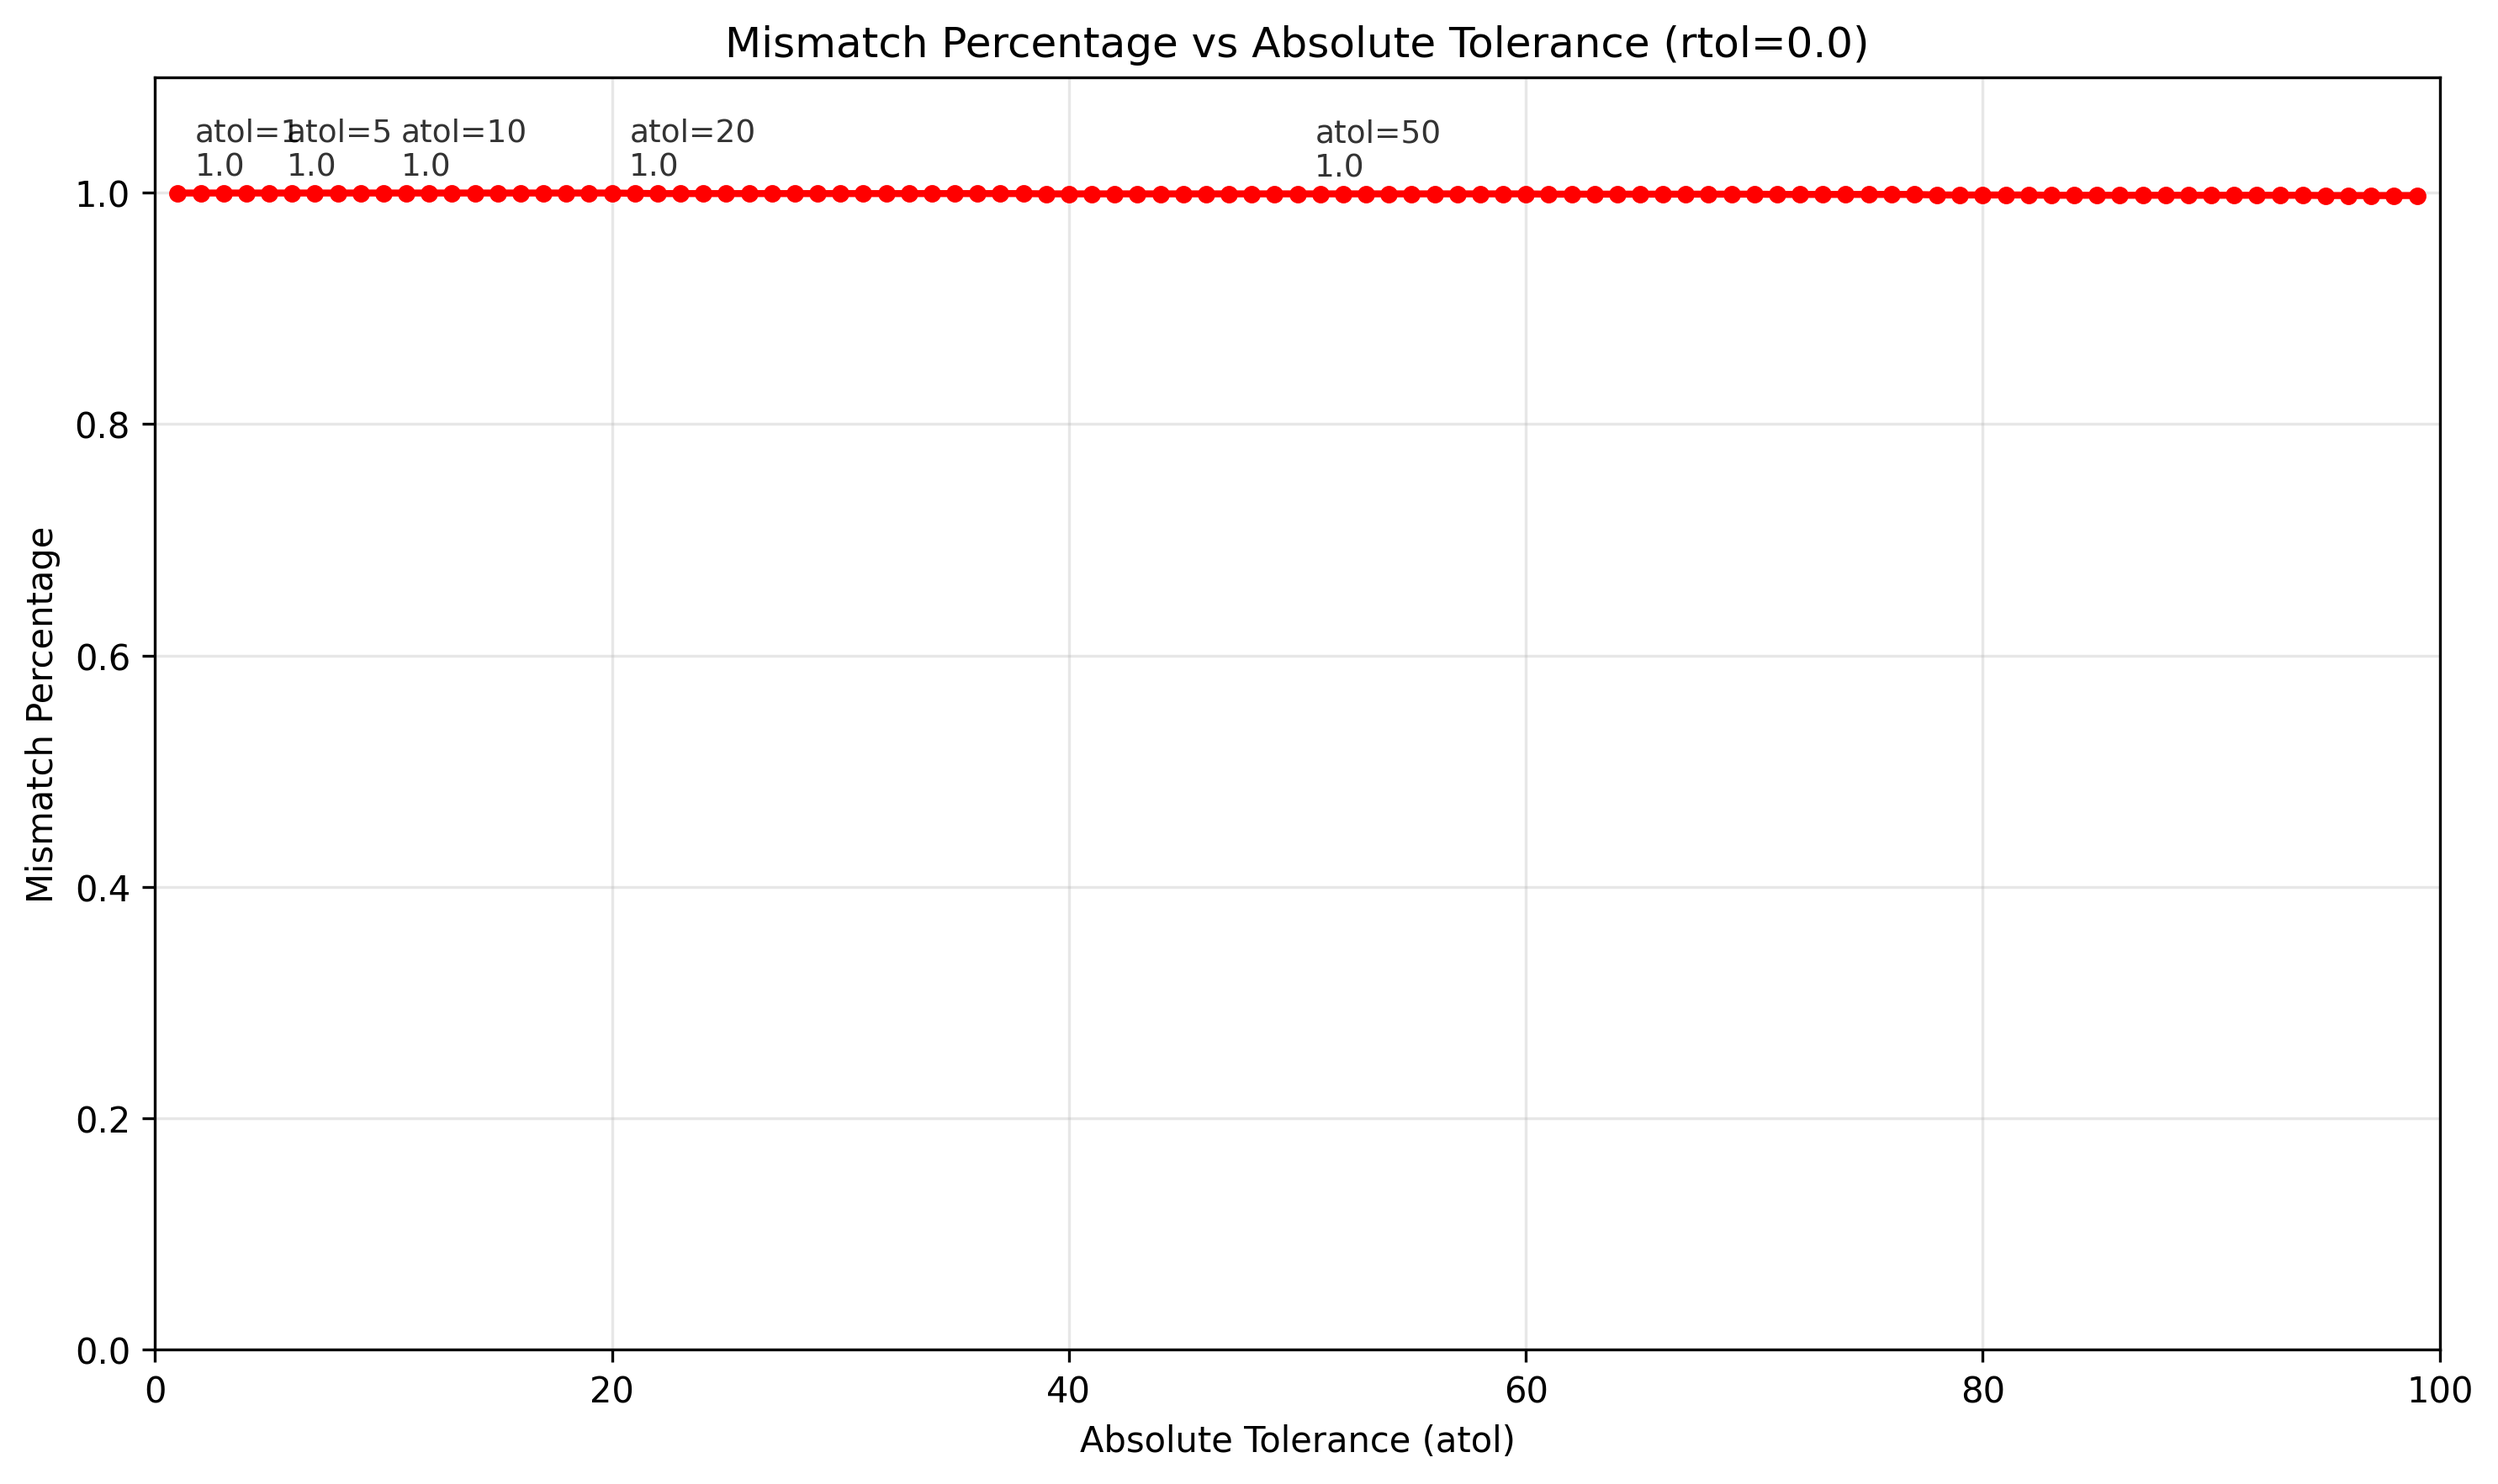
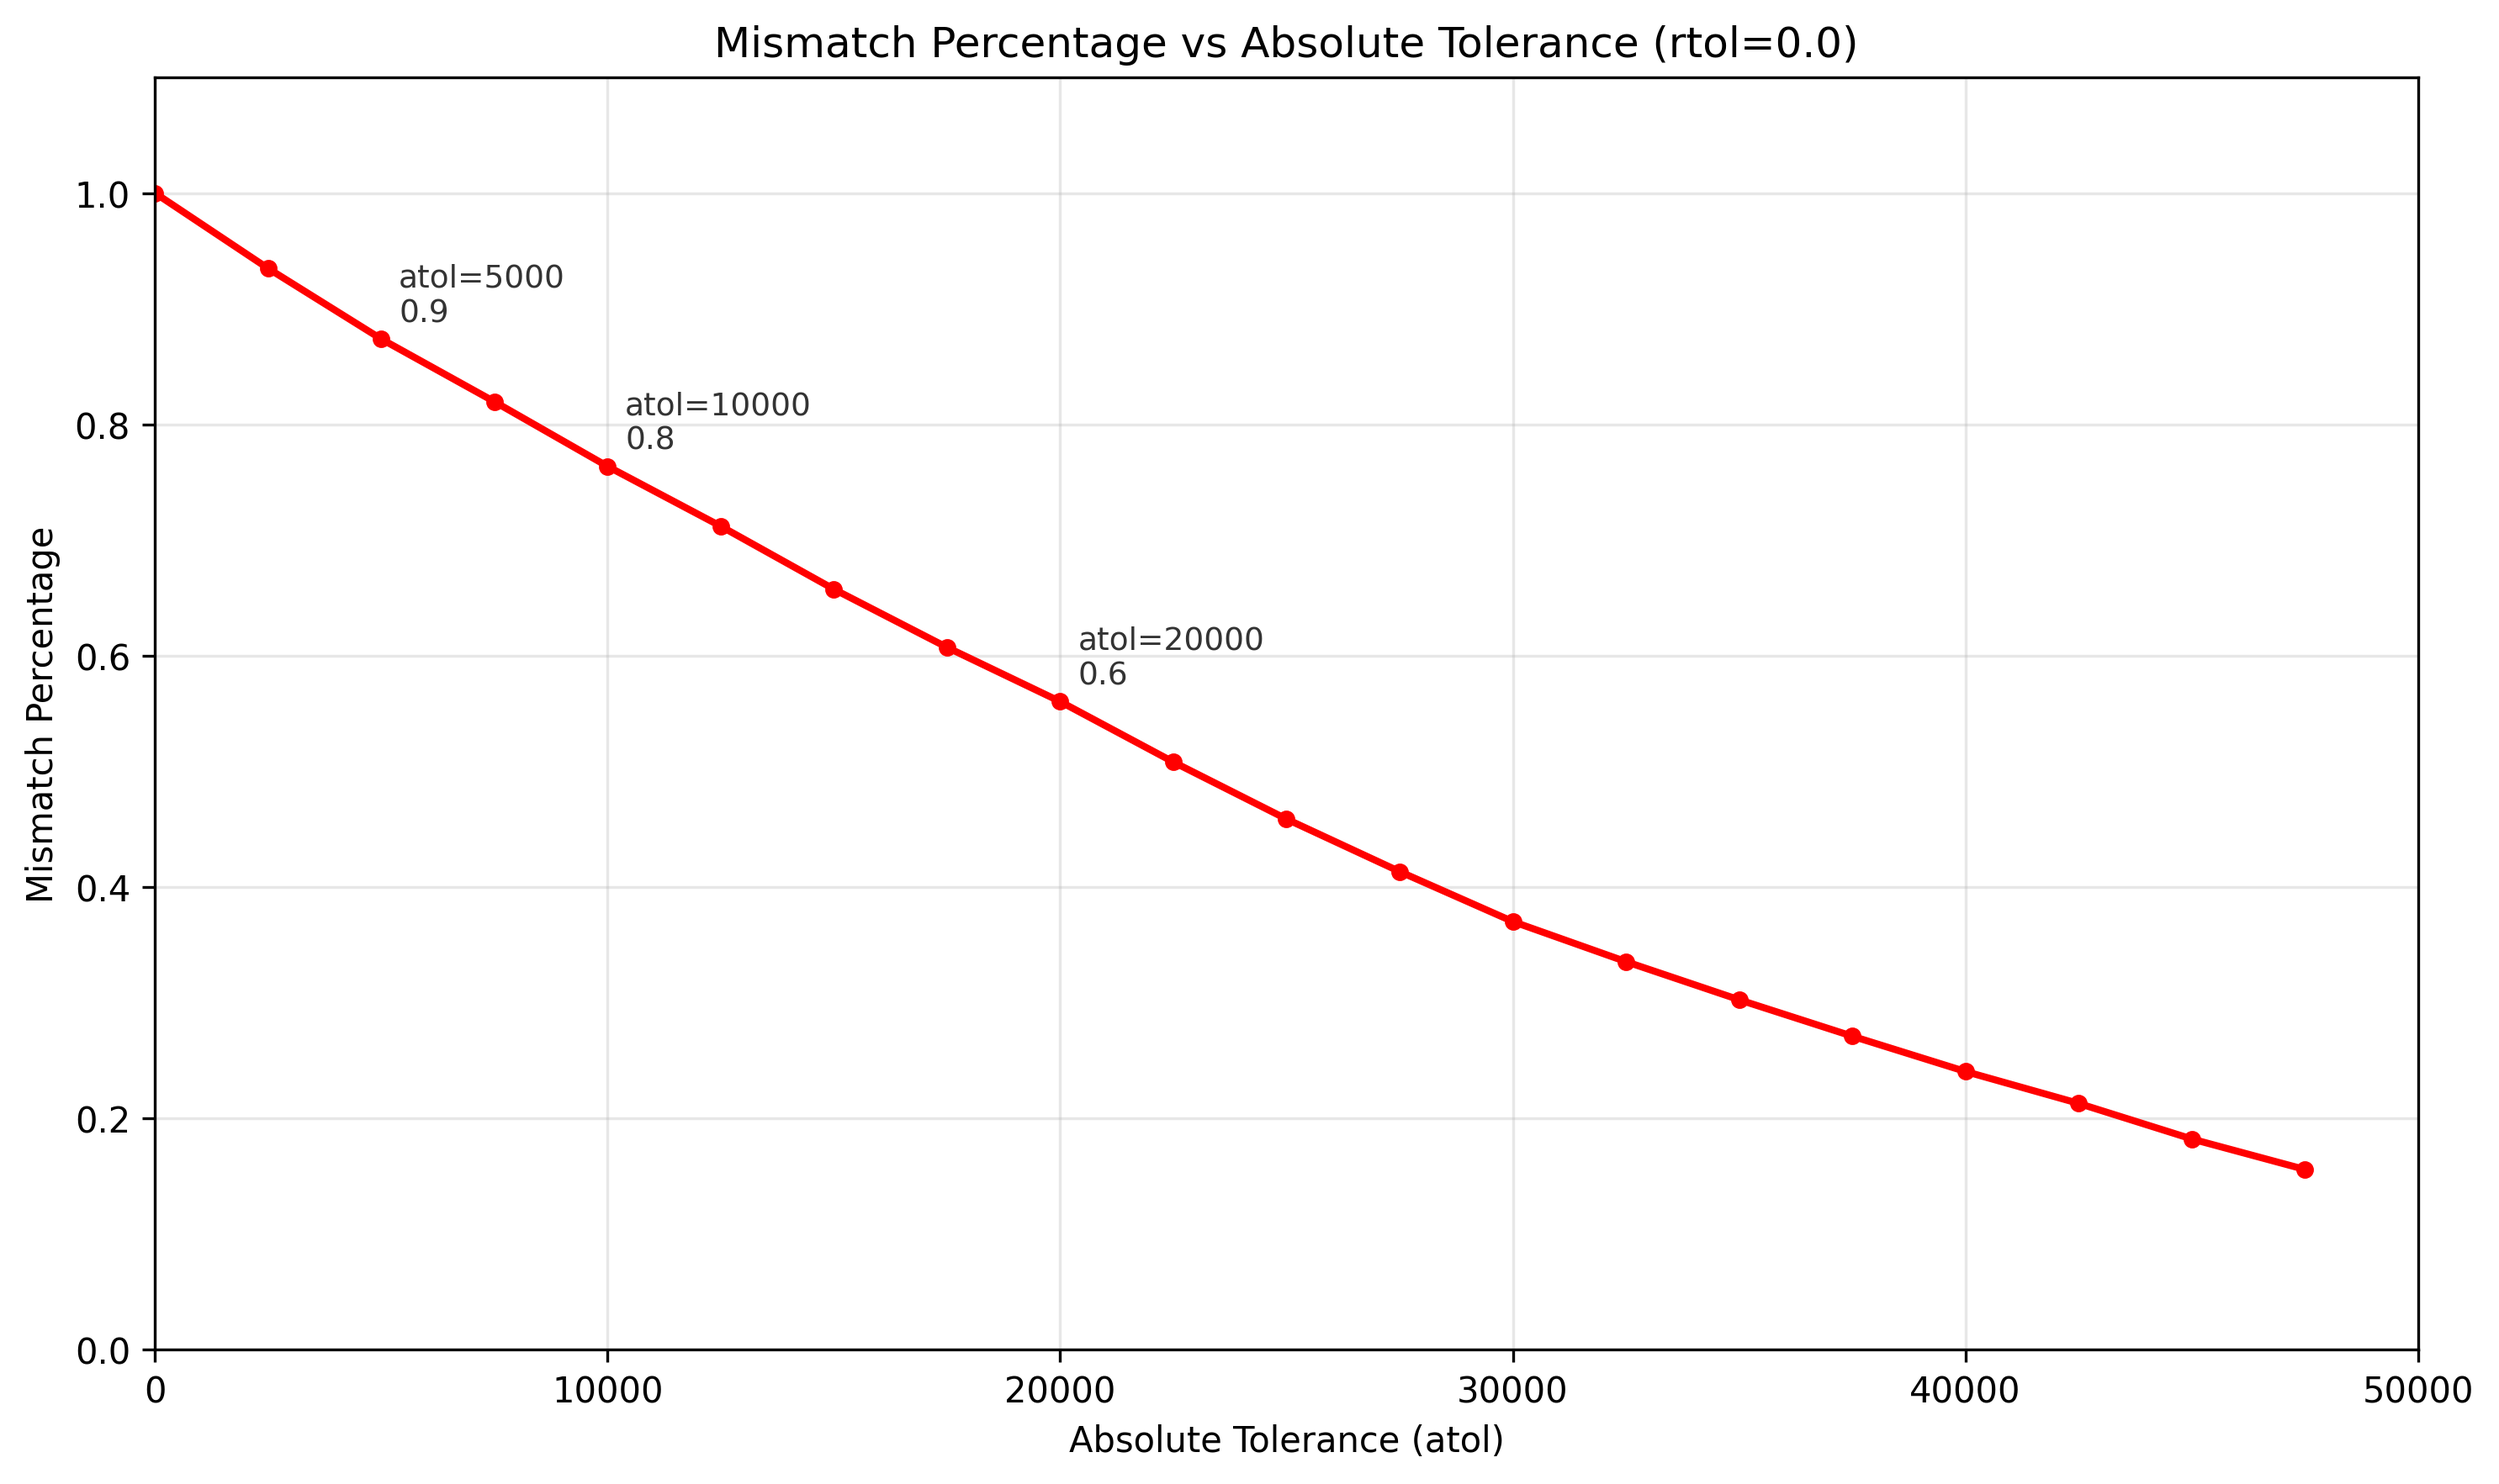
upd atol-pct with large atol

diff --git a/tests/test_trtllm_gen_fused_moe.py b/tests/test_trtllm_gen_fused_moe.py
@@ -2315,7 +2315,7 @@ def test_moe_quantization_classes(
     print("=" * 50)
 
     # Use a range of atol values from 0.01 to 1.0
-    atol_values = np.arange(1, 100, 1)  # From 0.01 to 1.0 with step 0.02
+    atol_values = np.arange(0, 50000, 2500)  # From 0.01 to 1.0 with step 0.02
     atol_mismatch_percentages = []
 
     for atol in atol_values:
@@ -2343,13 +2343,13 @@ def test_moe_quantization_classes(
     plt.ylabel("Mismatch Percentage")
     plt.title("Mismatch Percentage vs Absolute Tolerance (rtol=0.0)")
     plt.grid(True, alpha=0.3)
-    plt.xlim(0, 100)
+    plt.xlim(0, 50000)
     plt.ylim(
         0, max(atol_mismatch_percentages) * 1.1 if atol_mismatch_percentages else 100
     )
 
     # Add some key atol markers
-    key_atols = [1, 5, 10, 20, 50, 100]
+    key_atols = [5000, 10000, 20000, 50000]
     for key_atol in key_atols:
         if key_atol <= max(atol_values):
             idx = np.argmin(np.abs(atol_values - key_atol))
